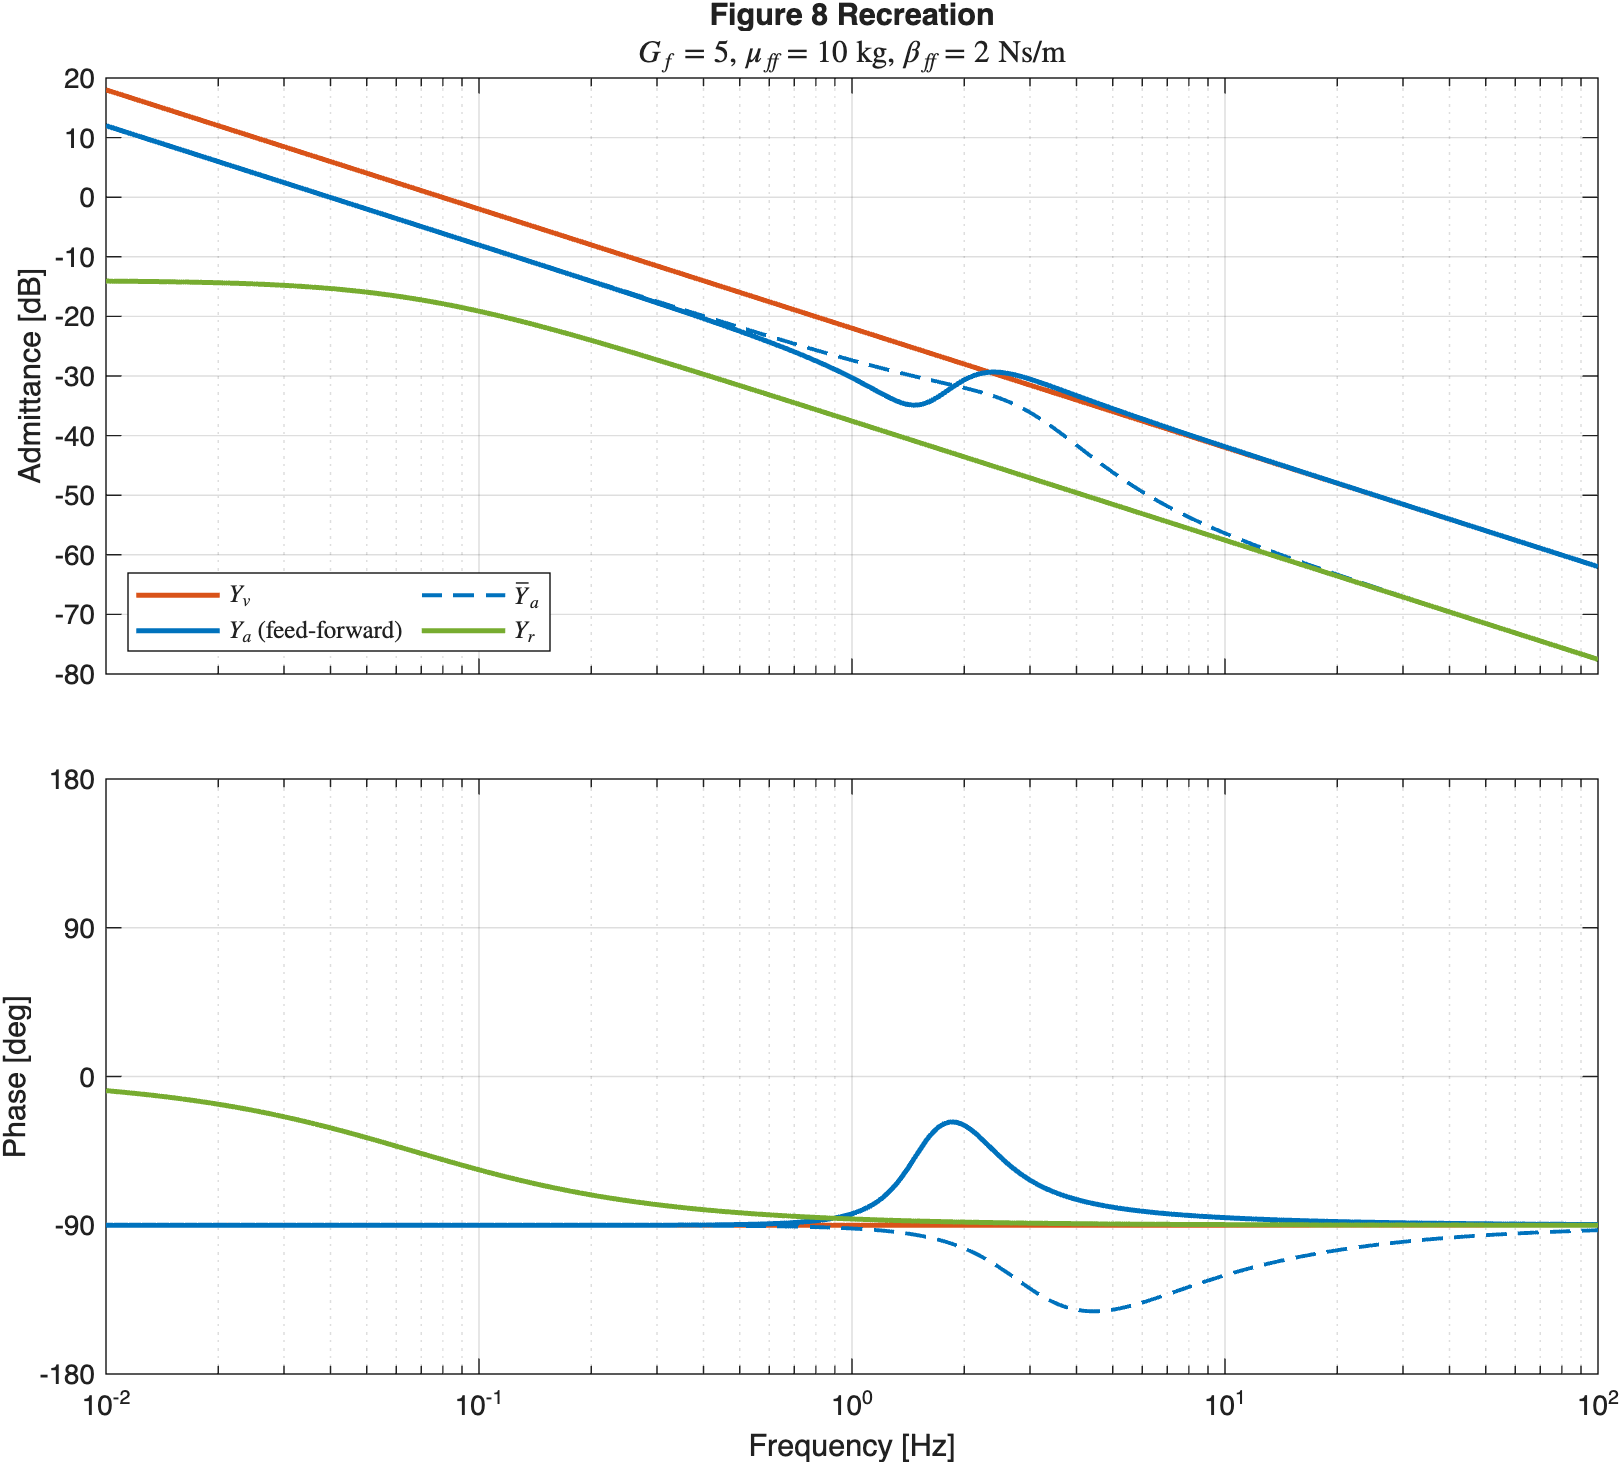
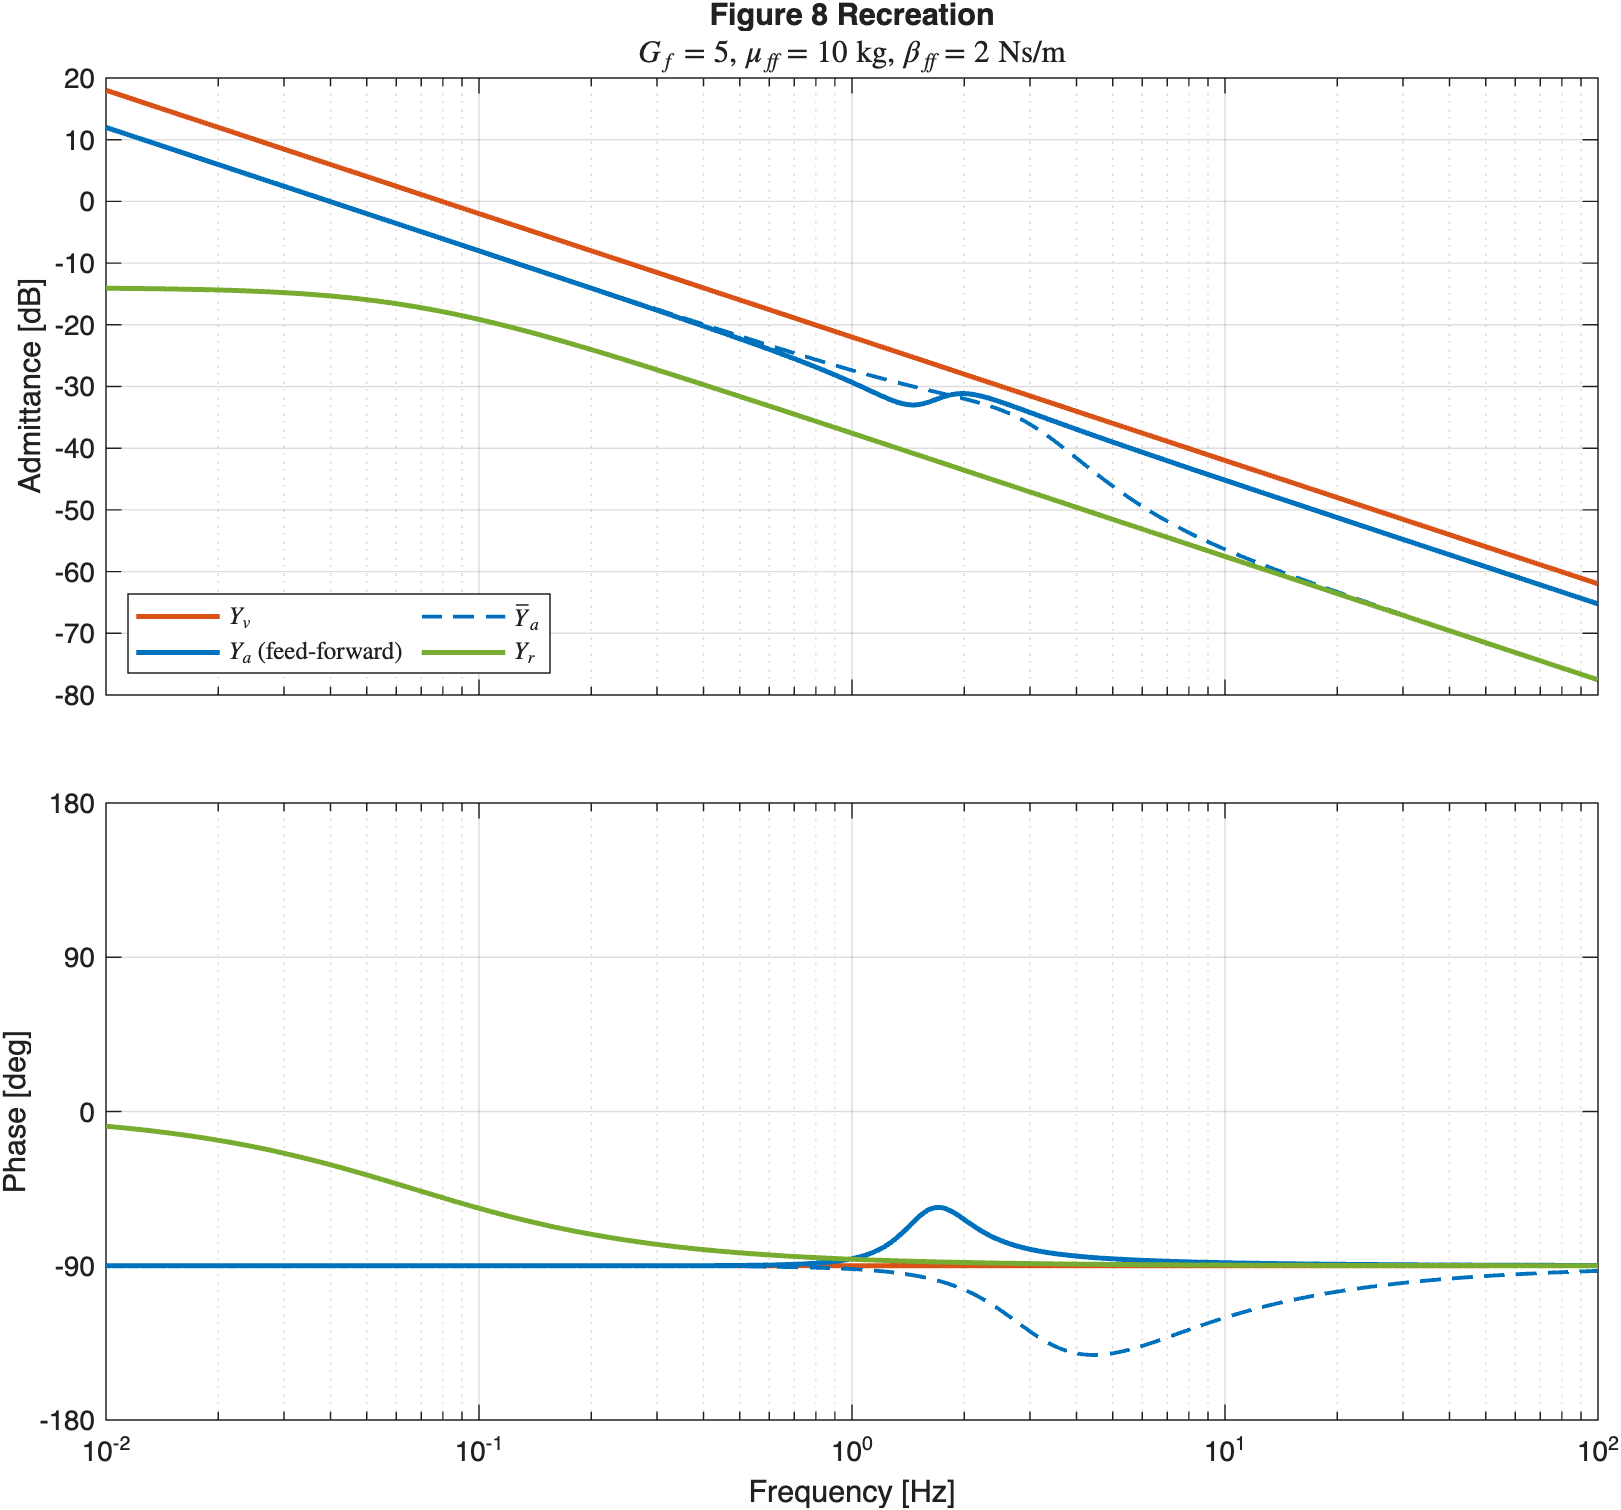
refactor: update rigidClosedLoopAdmittance model to correctly separate pre-sensor robot and post-sensor impedance and remove redundant code suppressions

diff --git a/matlab/recreate_keemink_figures.m b/matlab/recreate_keemink_figures.m
@@ -16,25 +16,25 @@ output_paths = strings(0, 1);
 for current_target = targets(:).'
     switch current_target
         case "fig06a"
-            output_paths(end + 1, 1) = keemink.makeFigure6a(); %#ok<AGROW>
+            output_paths(end + 1, 1) = keemink.makeFigure6a(); 
         case "fig07a"
-            output_paths(end + 1, 1) = keemink.makeFigure7a(); %#ok<AGROW>
+            output_paths(end + 1, 1) = keemink.makeFigure7a(); 
         case "fig07b"
-            output_paths(end + 1, 1) = keemink.makeFigure7b(); %#ok<AGROW>
+            output_paths(end + 1, 1) = keemink.makeFigure7b(); 
         case "fig08"
-            output_paths(end + 1, 1) = keemink.makeFigure8(); %#ok<AGROW>
+            output_paths(end + 1, 1) = keemink.makeFigure8(); 
         case "fig09a"
-            output_paths(end + 1, 1) = keemink.makeFigure9a(); %#ok<AGROW>
+            output_paths(end + 1, 1) = keemink.makeFigure9a(); 
         case "fig10a"
-            output_paths(end + 1, 1) = keemink.makeFigure10a(); %#ok<AGROW>
+            output_paths(end + 1, 1) = keemink.makeFigure10a(); 
         case "fig11a"
-            output_paths(end + 1, 1) = keemink.makeFigure11a(); %#ok<AGROW>
+            output_paths(end + 1, 1) = keemink.makeFigure11a(); 
         case "fig12"
-            output_paths(end + 1, 1) = keemink.makeFigure12(); %#ok<AGROW>
+            output_paths(end + 1, 1) = keemink.makeFigure12(); 
         case "fig13a"
-            output_paths(end + 1, 1) = keemink.makeFigure13a(); %#ok<AGROW>
+            output_paths(end + 1, 1) = keemink.makeFigure13a(); 
         case "fig15a"
-            output_paths(end + 1, 1) = keemink.makeFigure15a(); %#ok<AGROW>
+            output_paths(end + 1, 1) = keemink.makeFigure15a();
         otherwise
             error("Unsupported target '%s'. Supported: %s, all.", ...
                 current_target, join(all_targets, ", "));

diff --git a/matlab/+keemink/rigidClosedLoopAdmittance.m b/matlab/+keemink/rigidClosedLoopAdmittance.m
@@ -18,12 +18,18 @@ Cfb = tf(Cfb);
 Cff = tf(options.Cff);
 compensation = tf(options.Compensation);
 
-robot_impedance = ((params.mr + params.mps) * s) + params.br;
-measured_force_feedback = -params.mps * s + compensation;
+% Keep pre-sensor robot and post-sensor mass separate so that Gf
+% correctly scales Z_ps in the denominator (Keemink Appendix 3).
+Y_r_int = 1 / (params.mr * s + params.br);   % pre-sensor robot admittance
+Z_ps    = params.mps * s;                     % post-sensor impedance
+D_ps    = Z_ps - compensation;                % residual after compensation
+
 controller_drive = Cfb + Cff;
 
-numerator = 1 + kr * options.Gf + kr^2 * controller_drive * Yv;
-denominator = robot_impedance + kr^2 * Cfb - kr^2 * controller_drive * Yv * measured_force_feedback;
+num_inner = kr * options.Gf + kr^2 * controller_drive * Yv + 1;
+den_inner = kr^2 * controller_drive * Yv * D_ps ...
+          + kr^2 * Cfb ...
+          + Z_ps * (kr * options.Gf + 1);
 
-Ya = minreal(numerator / denominator, 1e-8);
+Ya = minreal(Y_r_int * num_inner / (Y_r_int * den_inner + 1), 1e-8);
 end

diff --git a/README.md b/README.md
@@ -19,7 +19,7 @@ This repository contains a MATLAB reproduction of the uncoupled admittance-frequ
 ### ✅ Implemented Figure Recreations
 - `fig06a`
 - `fig07a` & `fig07b`
-- `fig08` *(partial implementation, some details still need to be ironed out)*
+- `fig08`
 - `fig09a`
 - `fig10a`
 - `fig11a`
